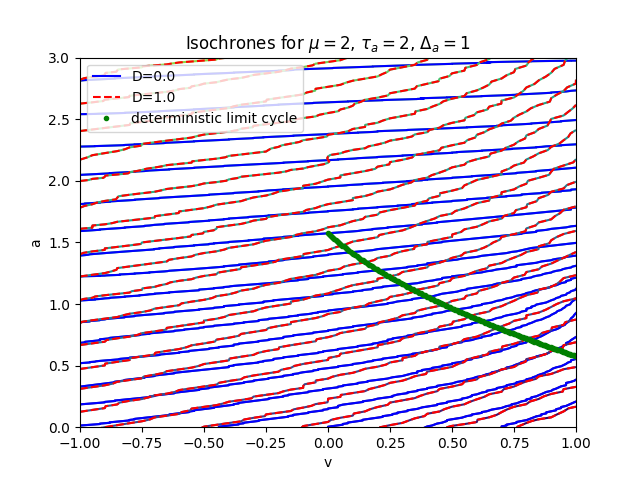
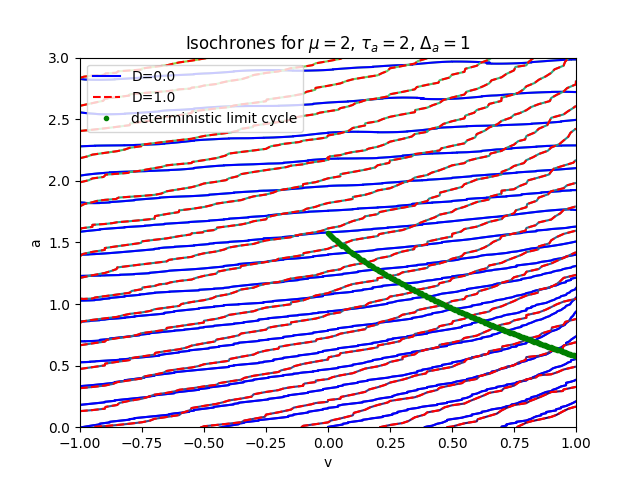
stuff

Changed region(s): [[0.125, 0.125, 0.9062, 0.9062], [0.125, 0.125, 0.4375, 0.25]]

diff --git a/mrt_phase_pde/pde/own_method/extract_curves_from_T_N/compare_two_curves.py b/mrt_phase_pde/pde/own_method/extract_curves_from_T_N/compare_two_curves.py
@@ -16,10 +16,8 @@ delta_a = equation_config['delta_a']
 limit_cycle_file_path = filepaths['limit_cycle_path']
 limit_cycle = read_curve_from_file(limit_cycle_file_path)
 
-D_list = [0.5, 1.0]
 
-if __name__ == '__main__':
-
+def plot_multiple_curves(D_list):
     plt.figure()
     draw_style = ['b-', 'r--', 'm-'] #, 'm:', 'c.' ]
 
@@ -28,7 +26,8 @@ if __name__ == '__main__':
         T_N_curves = get_curve_for_T_N(T_N, D )#, type='deterministic')
 
         for i, curve in enumerate(T_N_curves):
-            curve[:, 1] = savgol_filter(curve[:, 1], len(curve), np.min([5, len(curve)]) - 1)
+            step_size = int(len(curve) / 3)
+            curve[:, 1] = savgol_filter(curve[:, 1], step_size, np.min([step_size, 5]) - 1)
 
             if i == 0:
                 plt.plot(curve[:, 0], curve[:, 1], draw_style[j], label=f'D={D}')
@@ -43,7 +42,12 @@ if __name__ == '__main__':
     plt.title(f'Isochrones for $\mu={mu}$, $\\tau_a={tau_a}$, $\Delta_a={delta_a}$')
     # plt.title(f'$D={D}$, ')
     plt.legend()
+    plt.savefig(f'img\\isochrones_comparison_D_{D_list}.png')
 
     plt.show()
 
-    plt.savefig(f'img\\isochrones_comparison_D_{D_list}.png')
+
+if __name__ == '__main__':
+    D_list_ = [[0.0, 0.1], [0.0, 0.25], [0.0, 0.5],  [0.0, 1.0], [0.1, 0.25], [0.5, 1.0], [0.25, 0.5]]
+    for D_list in D_list_:
+        plot_multiple_curves(D_list)

diff --git a/mrt_phase_pde/pde/own_method/extract_curves_from_T_N/plot_curves_from_T_N.py b/mrt_phase_pde/pde/own_method/extract_curves_from_T_N/plot_curves_from_T_N.py
@@ -20,20 +20,9 @@ delta_a = equation_config['delta_a']
 limit_cycle_file_path = filepaths['limit_cycle_path']
 limit_cycle = read_curve_from_file(limit_cycle_file_path)
 
-D = 0.1
 
-
-def find_nearest(array, value):
-    idx = np.searchsorted(array, value, side="left")
-    if idx > 0 and (idx == len(array) or math.fabs(value - array[idx-1]) < math.fabs(value - array[idx])):
-        return idx-1
-    else:
-        return idx
-
-
-if __name__ == '__main__':
+def plot_T_N(D):
     # T_N = T_N_class.load(f'data/T_0_D_{D}_sim_n_thr_15.pickle')
-
     T_N = T_N_class.load(f'..\\result\\T_N_6_D_{D}.pickle')
 
     curves = get_curve_for_T_N(T_N, D)
@@ -60,7 +49,7 @@ if __name__ == '__main__':
     plt.legend()
 
     # plt.savefig(f'img\\isochrones_for_D_{D}_comparison_numeric_isochrones.png')
-    # plt.savefig(f'img\\isochrones_for_D_{D}.png')
+    plt.savefig(f'img\\isochrones_for_D_{D}.png')
 
     det_file_paths = '..\\..\\..\\..\\mrt_phase_numeric\\data\\results\\isochrones\\from_timeseries_grid\\deterministic\\D_0.0'
     stochastic = f'..\\..\\..\\..\\mrt_phase_numeric\\data\\results\\isochrones\\from_timeseries\\stochastic\\D_{D}'
@@ -78,3 +67,10 @@ if __name__ == '__main__':
     # plt.xlim([-1,1])
 
     plt.show()
+
+
+if __name__ == '__main__':
+    D_list = [0.0, 0.1, 0.25, 0.5, 1.0]
+
+    for D in D_list:
+        plot_T_N(D)

diff --git a/mrt_phase_pde/pde/own_method/extract_curves_from_T_N/extract_curves.py b/mrt_phase_pde/pde/own_method/extract_curves_from_T_N/extract_curves.py
@@ -1,6 +1,6 @@
 import numpy as np
 import math
-import matplotlib.pyplot as plt
+import matplotlib.pyplot as plt_
 
 from mrt_phase_numeric.src.DataTypes.DataTypes import filepaths
 from mrt_phase_numeric.src.util.save_util import read_curve_from_file
@@ -66,7 +66,7 @@ def get_curve_for_T_N(T_N: T_N, D: float, type=None):
     levels = get_levels(T_N, D, type=type)
 
     __x, __y = np.meshgrid(T_N.v, T_N.a)
-    cs = plt.contour(__x, __y, T_N.T.transpose(), levels=np.sort(levels)[1:])  # , v_min=-30, v_max=30)
+    cs = plt_.contour(__x, __y, T_N.T.transpose(), levels=np.sort(levels)[1:])  # , v_min=-30, v_max=30)
     all_curves = get_curves_from_cs(cs)
 
     return all_curves
